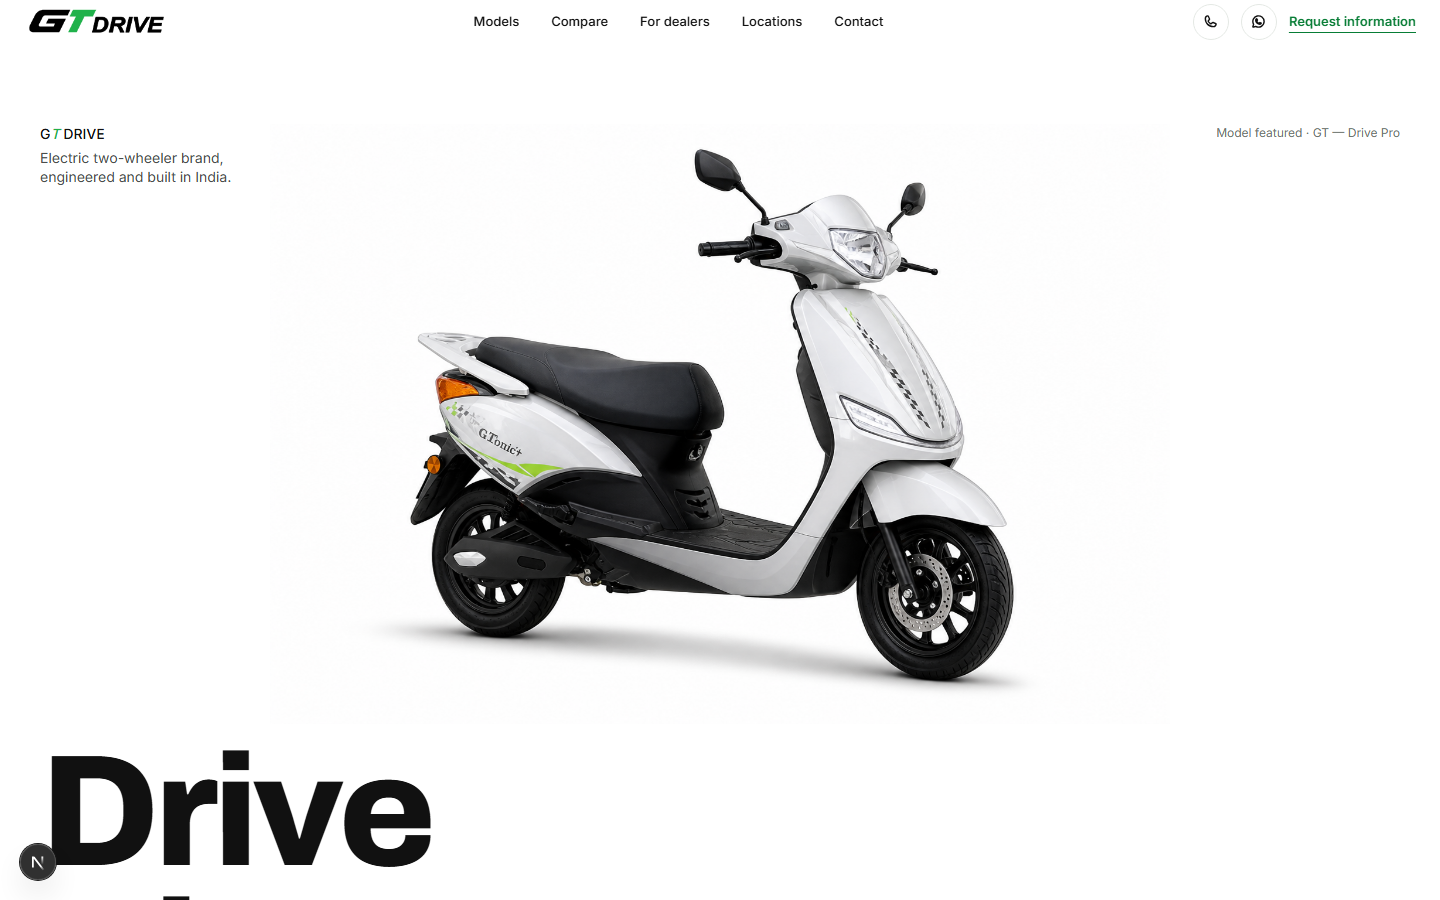
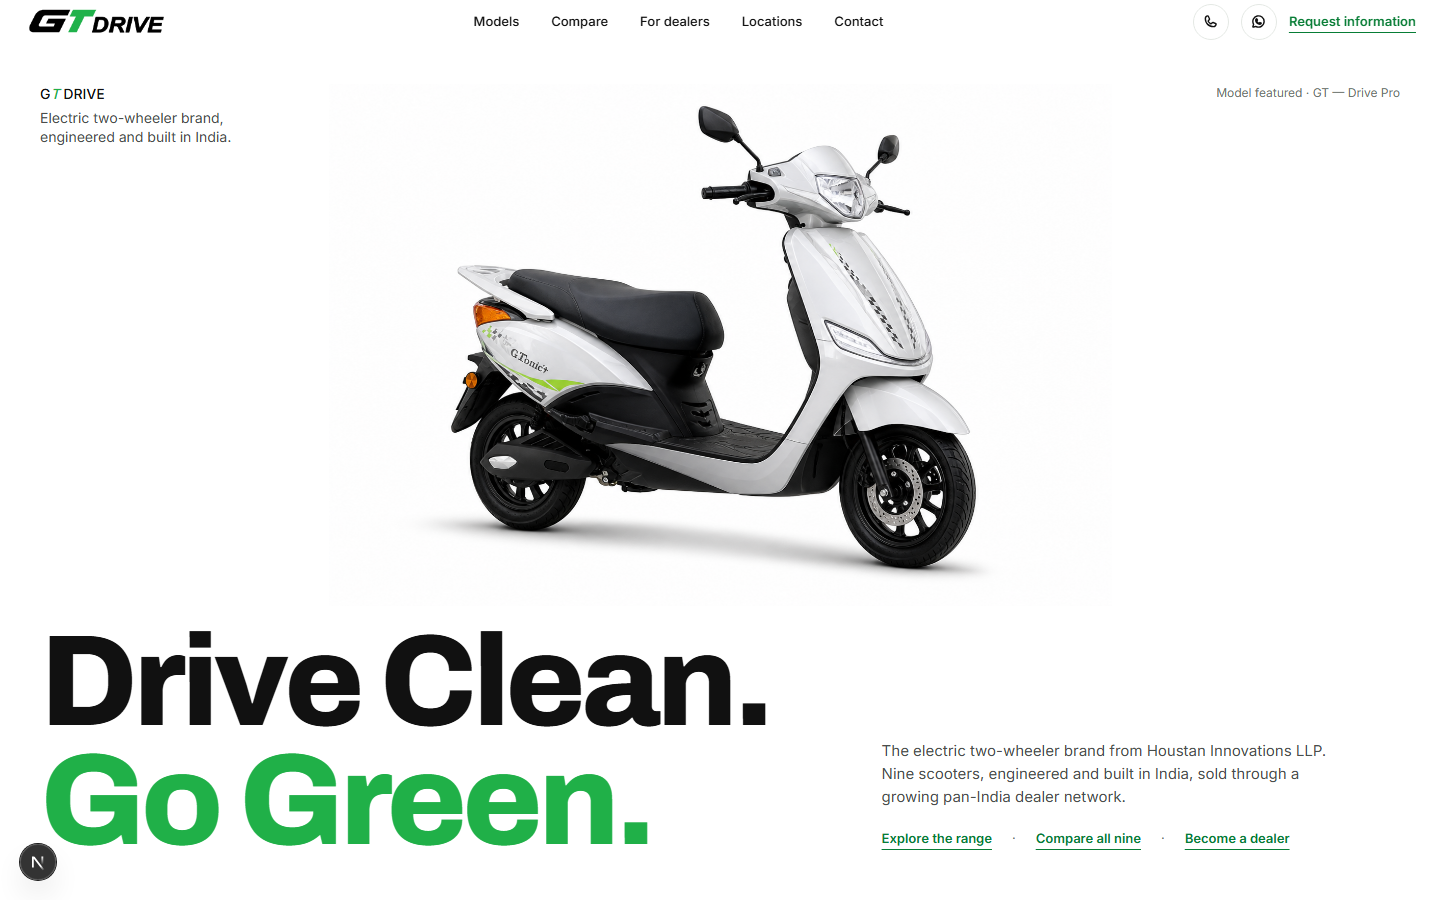
Hero: fit both zones in first viewport (min-h-svh + capped scooter height)
- Reported: on wide viewports (1920x900) the scooter dominated and the tagline sat below the fold
- Section is now min-h-[calc(100svh-44px)] flex-col with the scooter capped at max-h-[58vh] so both upper (scooter) and lower (tagline + supporting) zones share the fold
- Tagline scaled down slightly (clamp 44px/9vw/132px, was 48px/11vw/168px) to earn space for the paragraph and links alongside
- Verified at 1920x900, 1440x900, and mobile 390 — full v4 composition visible in first viewport at all three
- Screenshot script updated to also capture 1920x900

diff --git a/components/Hero.tsx b/components/Hero.tsx
@@ -5,12 +5,12 @@ export function Hero() {
   return (
     <section
       aria-labelledby="hero-tagline"
-      className="relative overflow-hidden bg-white"
+      className="relative flex min-h-[calc(100svh-44px)] flex-col justify-between overflow-hidden bg-white"
     >
       {/* UPPER ZONE — the scooter */}
-      <div className="relative mx-auto flex max-w-[var(--container-page)] items-end justify-center px-6 pt-14 md:px-10 md:pt-20">
+      <div className="relative mx-auto flex w-full max-w-[var(--container-page)] flex-1 items-center justify-center px-6 pt-6 md:px-10 md:pt-10">
         {/* Top-left identifier — desktop only */}
-        <div className="absolute left-10 top-20 z-10 hidden max-w-[240px] text-[14px] font-medium leading-[1.4] md:block">
+        <div className="absolute left-6 top-6 z-10 hidden max-w-[240px] text-[14px] font-medium leading-[1.4] md:left-10 md:top-10 md:block">
           <div className="text-[var(--color-ink)]">
             <span>G</span>
             <span className="italic text-[var(--color-green)]">T</span>
@@ -21,45 +21,45 @@ export function Hero() {
         </div>
 
         {/* Top-right featured mark — desktop only */}
-        <div className="absolute right-10 top-20 z-10 hidden text-[12px] text-[var(--color-muted)] md:block">
+        <div className="absolute right-6 top-6 z-10 hidden text-[12px] text-[var(--color-muted)] md:right-10 md:top-10 md:block">
           Model featured · GT — Drive Pro
         </div>
 
         {/* The scooter */}
-        <div className="relative w-full max-w-[900px]">
+        <div className="relative flex w-full items-center justify-center">
           <Image
             src="/assets/gt-drive/generated/hero-drive-pro.png"
             alt="GT Drive Pro electric scooter"
             width={1536}
             height={1024}
             priority
-            className="mx-auto h-auto w-full object-contain"
+            className="max-h-[52vh] w-auto max-w-full object-contain md:max-h-[58vh]"
           />
         </div>
       </div>
 
       {/* Mobile-only featured mark (below scooter) */}
-      <div className="mx-auto max-w-[var(--container-page)] px-6 pt-2 text-[11px] text-[var(--color-muted)] md:hidden">
+      <div className="mx-auto w-full max-w-[var(--container-page)] px-6 pt-2 text-[11px] text-[var(--color-muted)] md:hidden">
         Model featured · GT — Drive Pro
       </div>
 
       {/* LOWER ZONE — tagline + supporting */}
-      <div className="mx-auto grid max-w-[var(--container-page)] gap-8 px-6 pt-6 pb-20 md:grid-cols-[1.5fr_1fr] md:gap-16 md:px-10 md:pt-4 md:pb-28">
+      <div className="mx-auto grid w-full max-w-[var(--container-page)] shrink-0 gap-6 px-6 pb-8 pt-6 md:grid-cols-[1.5fr_1fr] md:items-end md:gap-16 md:px-10 md:pb-10 md:pt-4">
         <h1
           id="hero-tagline"
-          className="text-[clamp(48px,11vw,168px)] leading-[0.92]"
+          className="text-[clamp(44px,9vw,132px)] leading-[0.92]"
         >
           <span className="block text-[var(--color-ink)]">Drive Clean.</span>
           <span className="block text-[var(--color-green)]">Go Green.</span>
         </h1>
 
-        <div className="flex flex-col justify-end gap-6 md:gap-8">
-          <p className="max-w-md text-[15px] leading-[1.55] text-[var(--color-body)] md:text-base">
+        <div className="flex flex-col gap-5 md:pb-3">
+          <p className="max-w-md text-[14px] leading-[1.55] text-[var(--color-body)] md:text-[15px]">
             The electric two-wheeler brand from Houstan Innovations LLP. Nine
             scooters, engineered and built in India, sold through a growing
             pan-India dealer network.
           </p>
-          <div className="flex flex-wrap items-center gap-x-5 gap-y-3 text-sm">
+          <div className="flex flex-wrap items-center gap-x-5 gap-y-3 text-[13px]">
             <Link
               href="/models/"
               className="font-semibold text-[var(--color-green-deep)] underline underline-offset-[6px]"
